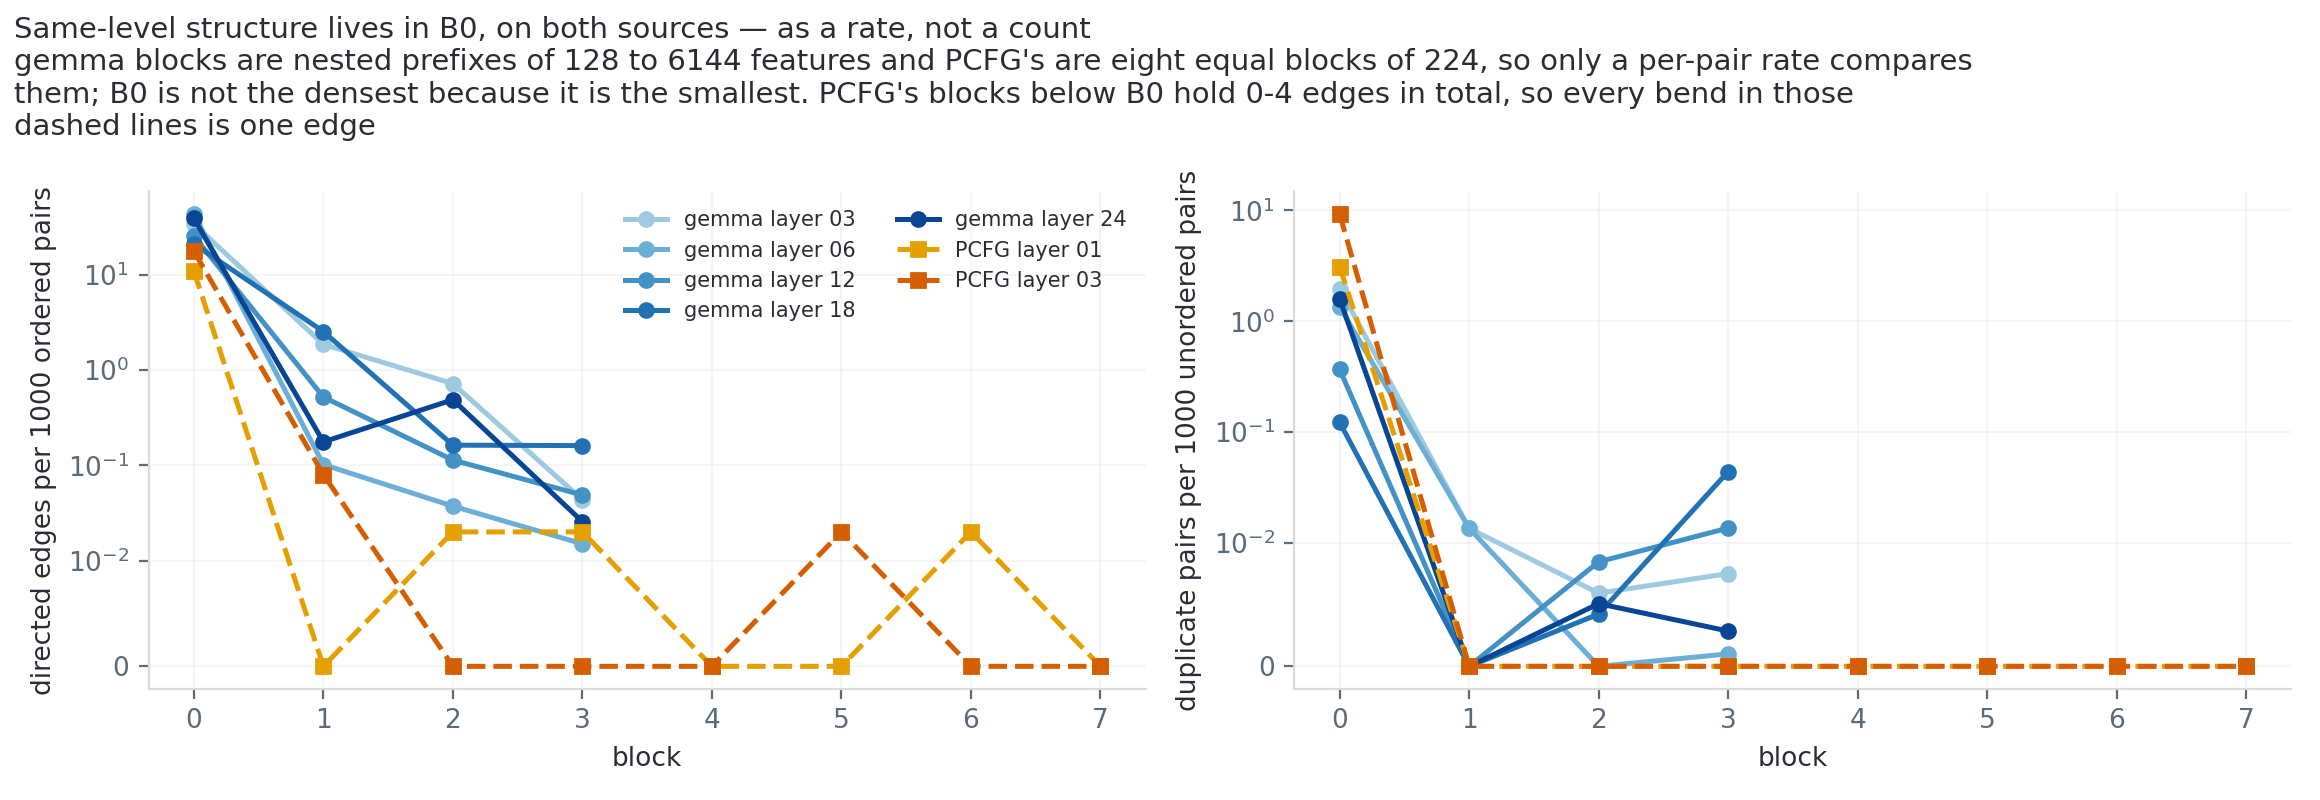
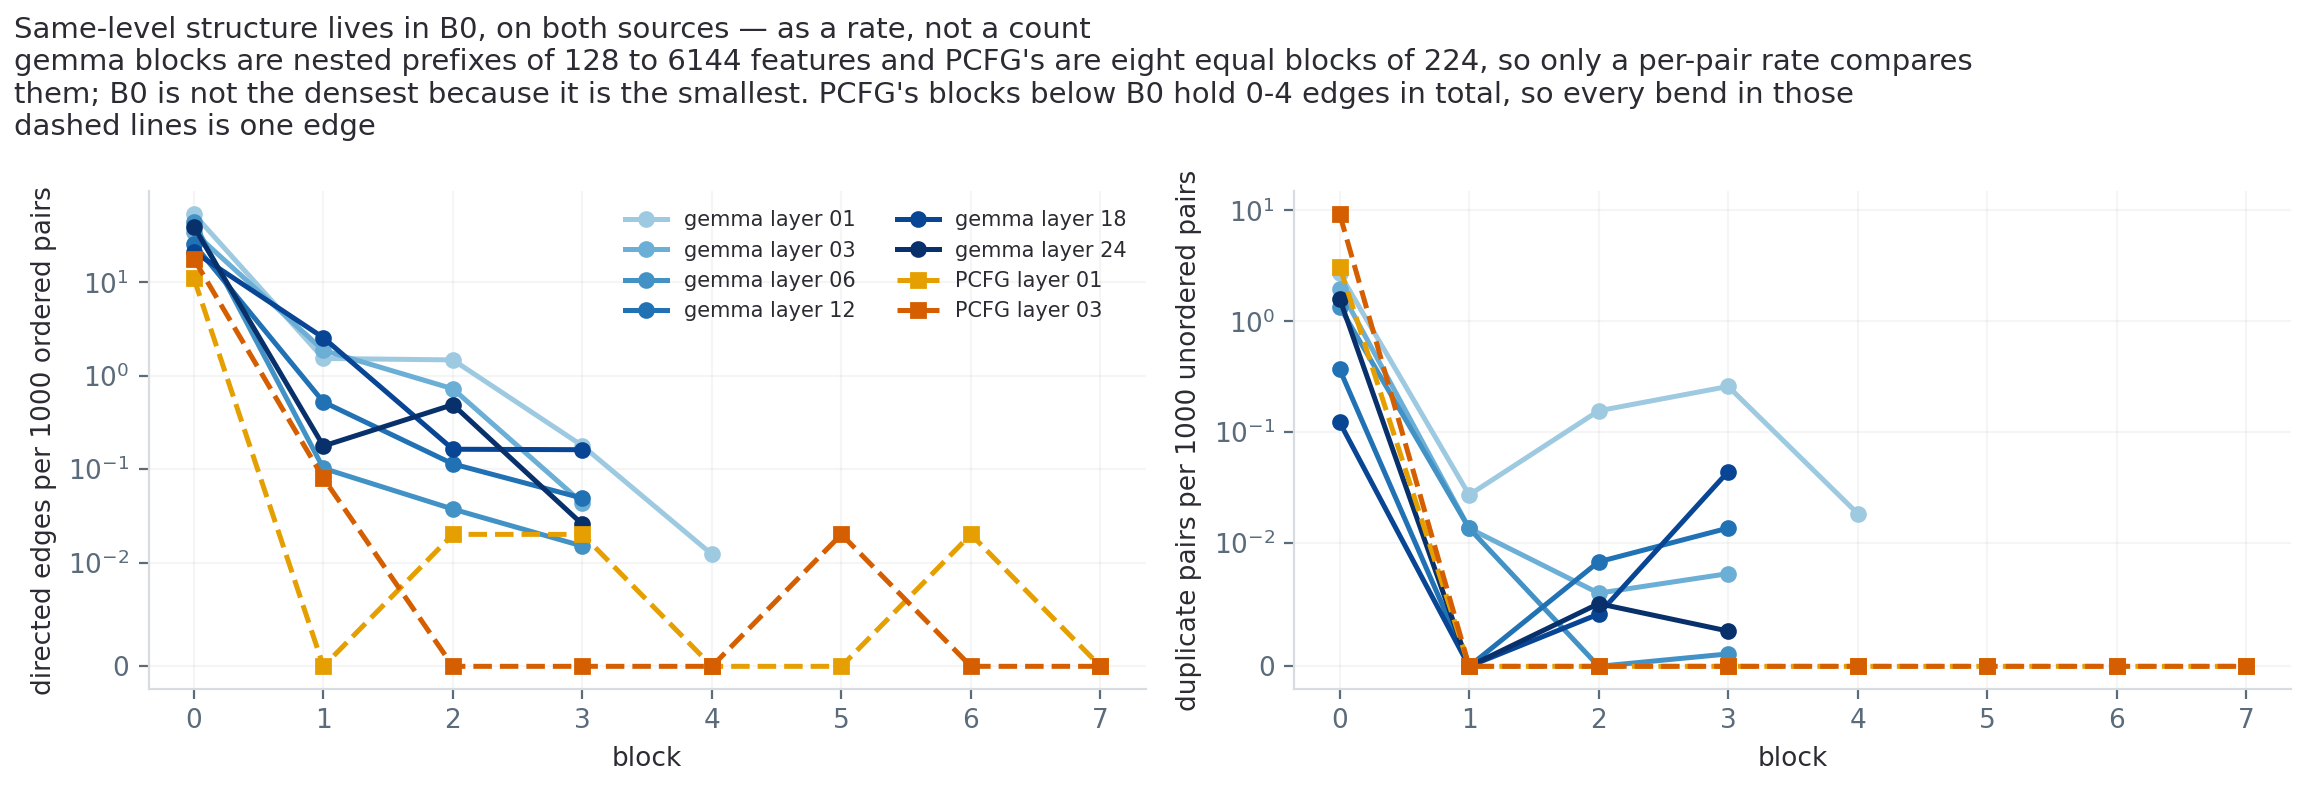
Regenerate figures.tex + PNGs for 6 layers; fix DEPTH color list (5→6)

diff --git a/outputs/paper_figuers/figures.tex b/outputs/paper_figuers/figures.tex
@@ -80,8 +80,8 @@
   \caption{%
     \textbf{The recovered graph is not a tree.}
     Percentage of child features with two or more parents, per block pair, across the five
-    graded layers. In the top pair B0$\rightarrow$B1 the value is 99\% / 100\% / 100\% / 89\%
-    / 100\%---nearly every child in the second block is claimed by several first-block
+    graded layers. In the top pair B0$\rightarrow$B1 the value is 100\% / 99\% / 100\% / 100\%
+    / 89\% / 100\%---nearly every child in the second block is claimed by several first-block
     features, which no reading as a hierarchy survives. This is the only one of the project's
     four original claims that BOS exclusion left unchanged, because it is a ratio over
     children that already have a parent rather than a count of candidate edges, and so does
@@ -121,8 +121,8 @@
     Two per-edge diagnostics on the same candidate sets, B0$\rightarrow$B1. The independence
     null asks whether co-firing exceeds what the parent's own firing rate already forces, and
     rejects 69--86\% of edges. The token-frequency control asks whether the edge survives once
-    globally frequent tokens are removed, and rejects 0.9--2.2\%. They disagree by
-    37--83$\times$ at every layer. This tests the observation the bottleneck-hijacking
+    globally frequent tokens are removed, and rejects 0.7--2.2\%. They disagree by
+    37--104$\times$ at every layer. This tests the observation the bottleneck-hijacking
     hypothesis is built on---that the over-connected parents mostly track high-frequency
     tokens such as spaces, punctuation and \emph{the}---and does not support it: the frequency
     control exonerates 98--99\% of edges while the base-rate null rejects most of them.
@@ -138,8 +138,8 @@
     \textbf{Why a parent that fires often enough clears the coverage bar for nothing.}
     An edge is kept when $P(\mathrm{parent} \mid \mathrm{child}) \geq \tau = 0.5$. Under
     independence that probability is simply the parent's firing rate $\rho$, so the enrichment
-    a parent needs over chance is $\tau/\rho$, the grey curve. All 25 parents flagged as
-    superparents, across five layers and every block pair, lie on it. 21 of them fire on at
+    a parent needs over chance is $\tau/\rho$, the grey curve. All 34 parents flagged as
+    superparents, across five layers and every block pair, lie on it. 26 of them fire on at
     least 50\% of tokens and therefore clear the bar at $\leq 1\times$ enrichment---on base
     rate alone, with no association whatsoever between parent and child. A parent firing on
     1\% of tokens would need 50$\times$ enrichment for the same edge. This is the mechanism
@@ -203,7 +203,7 @@
   \caption{%
     \textbf{Same-level structure lives in the outermost block.}
     Directed edges and co-extensive duplicates \emph{within} each block, where no block
-    ordering fixes the direction and it must be derived from coverage asymmetry, across all 7
+    ordering fixes the direction and it must be derived from coverage asymmetry, across all 8
     graded runs. Reported as a rate per available pair rather than as a count: gemma's blocks
     are nested prefixes of 128 to 6{,}144 features, so the number of available pairs differs
     by a factor of 2{,}300 and raw counts invert the reading---the deepest block holds the

diff --git a/reporting/make_report_figures.py b/reporting/make_report_figures.py
@@ -66,7 +66,7 @@ PAPER_DIR = C.OUT_DIR / "paper_figuers"
 CAT = ["#0072B2", "#E69F00", "#009E73", "#D55E00"]
 # Layers are ORDERED, so depth gets a single-hue sequential ramp rather than four
 # categorical hues. Reading L24 as "the dark one" is the encoding doing its job.
-DEPTH = ["#9ECAE1", "#6BAED6", "#4292C6", "#2171B5", "#084594"]
+DEPTH = ["#9ECAE1", "#6BAED6", "#4292C6", "#2171B5", "#084594", "#08306b"]
 NEUTRAL = "#C9CCD1"          # "removed" / reference — not a category
 GOOD = "#009E73"             # status: survived. Reserved, never a series colour.
 INK, MUTED = "#2B2B33", "#5A6B7B"

diff --git a/outputs/paper_figuers/README.md b/outputs/paper_figuers/README.md
@@ -30,16 +30,21 @@ Generated by [`reporting/make_report_figures.py`](../../reporting/make_report_fi
 | figure | what it is evidence for | built from |
 | --- | --- | --- |
 | `funnel_coverage_to_sres.png` | co-firing proposes far more edges than survive the strict test | gemma-2-2b/layer_06 metrics_report.json + second_pass.json |
-| `edge_survival_by_block_pair.png` | what each filter removes, by block pair and by depth | 5 gemma layer reports |
-| `depth_profile_across_layers.png` | no measure is monotonic in depth once BOS is excluded | 5 gemma layer reports |
-| `multiparenting_by_layer.png` | the graph is not a tree — the one claim BOS exclusion left standing | 5 gemma layer reports |
-| `shared_input_moved_every_metric.png` | five of six metrics share an input and failed together — the battery's own failure mode | 5 current reports vs 5 archived v1 reports |
-| `base_rate_vs_frequency_capture.png` | the over-connection is base rate, not frequency capture — the hypothesis's premise, tested | 5 gemma layer reports |
-| `superparent_fanout_vs_firing.png` | the superparent gate reads fan-out; firing rate is handled per edge | 5 gemma layer reports |
+| `edge_survival_by_block_pair.png` | what each filter removes, by block pair and by depth | 6 gemma layer reports |
+| `depth_profile_across_layers.png` | no measure is monotonic in depth once BOS is excluded | 6 gemma layer reports |
+| `multiparenting_by_layer.png` | the graph is not a tree — the one claim BOS exclusion left standing | 6 gemma layer reports |
+| `base_rate_vs_frequency_capture.png` | the over-connection is base rate, not frequency capture — the hypothesis's premise, tested | 6 gemma layer reports |
+| `superparent_fanout_vs_firing.png` | the superparent gate reads fan-out; firing rate is handled per edge | 6 gemma layer reports |
 | `calibration_synthetic_toy_scorecard.png` | every metric scored against a known tree, plus two demonstrated blind spots | outputs/synthetic_toy_calibration.json |
 | `calibration_trained_toy_recovery.png` | the same tree after a real training run, and the nesting control | outputs/trained_toy_calibration.json |
 | `cross_source_funnel_shares.png` | one unchanged battery across two SAE sources | 3 sources |
-| `in_block_relations.png` | same-level structure concentrates in B0 on both sources, read as a per-pair rate | 7 runs with in_block_edges.json |
+| `in_block_relations.png` | same-level structure concentrates in B0 on both sources, read as a per-pair rate | 8 runs with in_block_edges.json |
 | `sres_null_rate_vs_dictionary_size.png` | a top-k rank rule is only as strict as D is large | config (k=5) + 3 measured pass rates |
+
+## Not built
+
+| figure | why |
+| --- | --- |
+| `shared_input_moved_every_metric.png` | 6 current reports vs 5 archived v1 reports |
 
 Every number in every title is read from the JSON being plotted, so a caption cannot outlive the data under it -- the previous generator quoted layer-6 figures that had been withdrawn.
